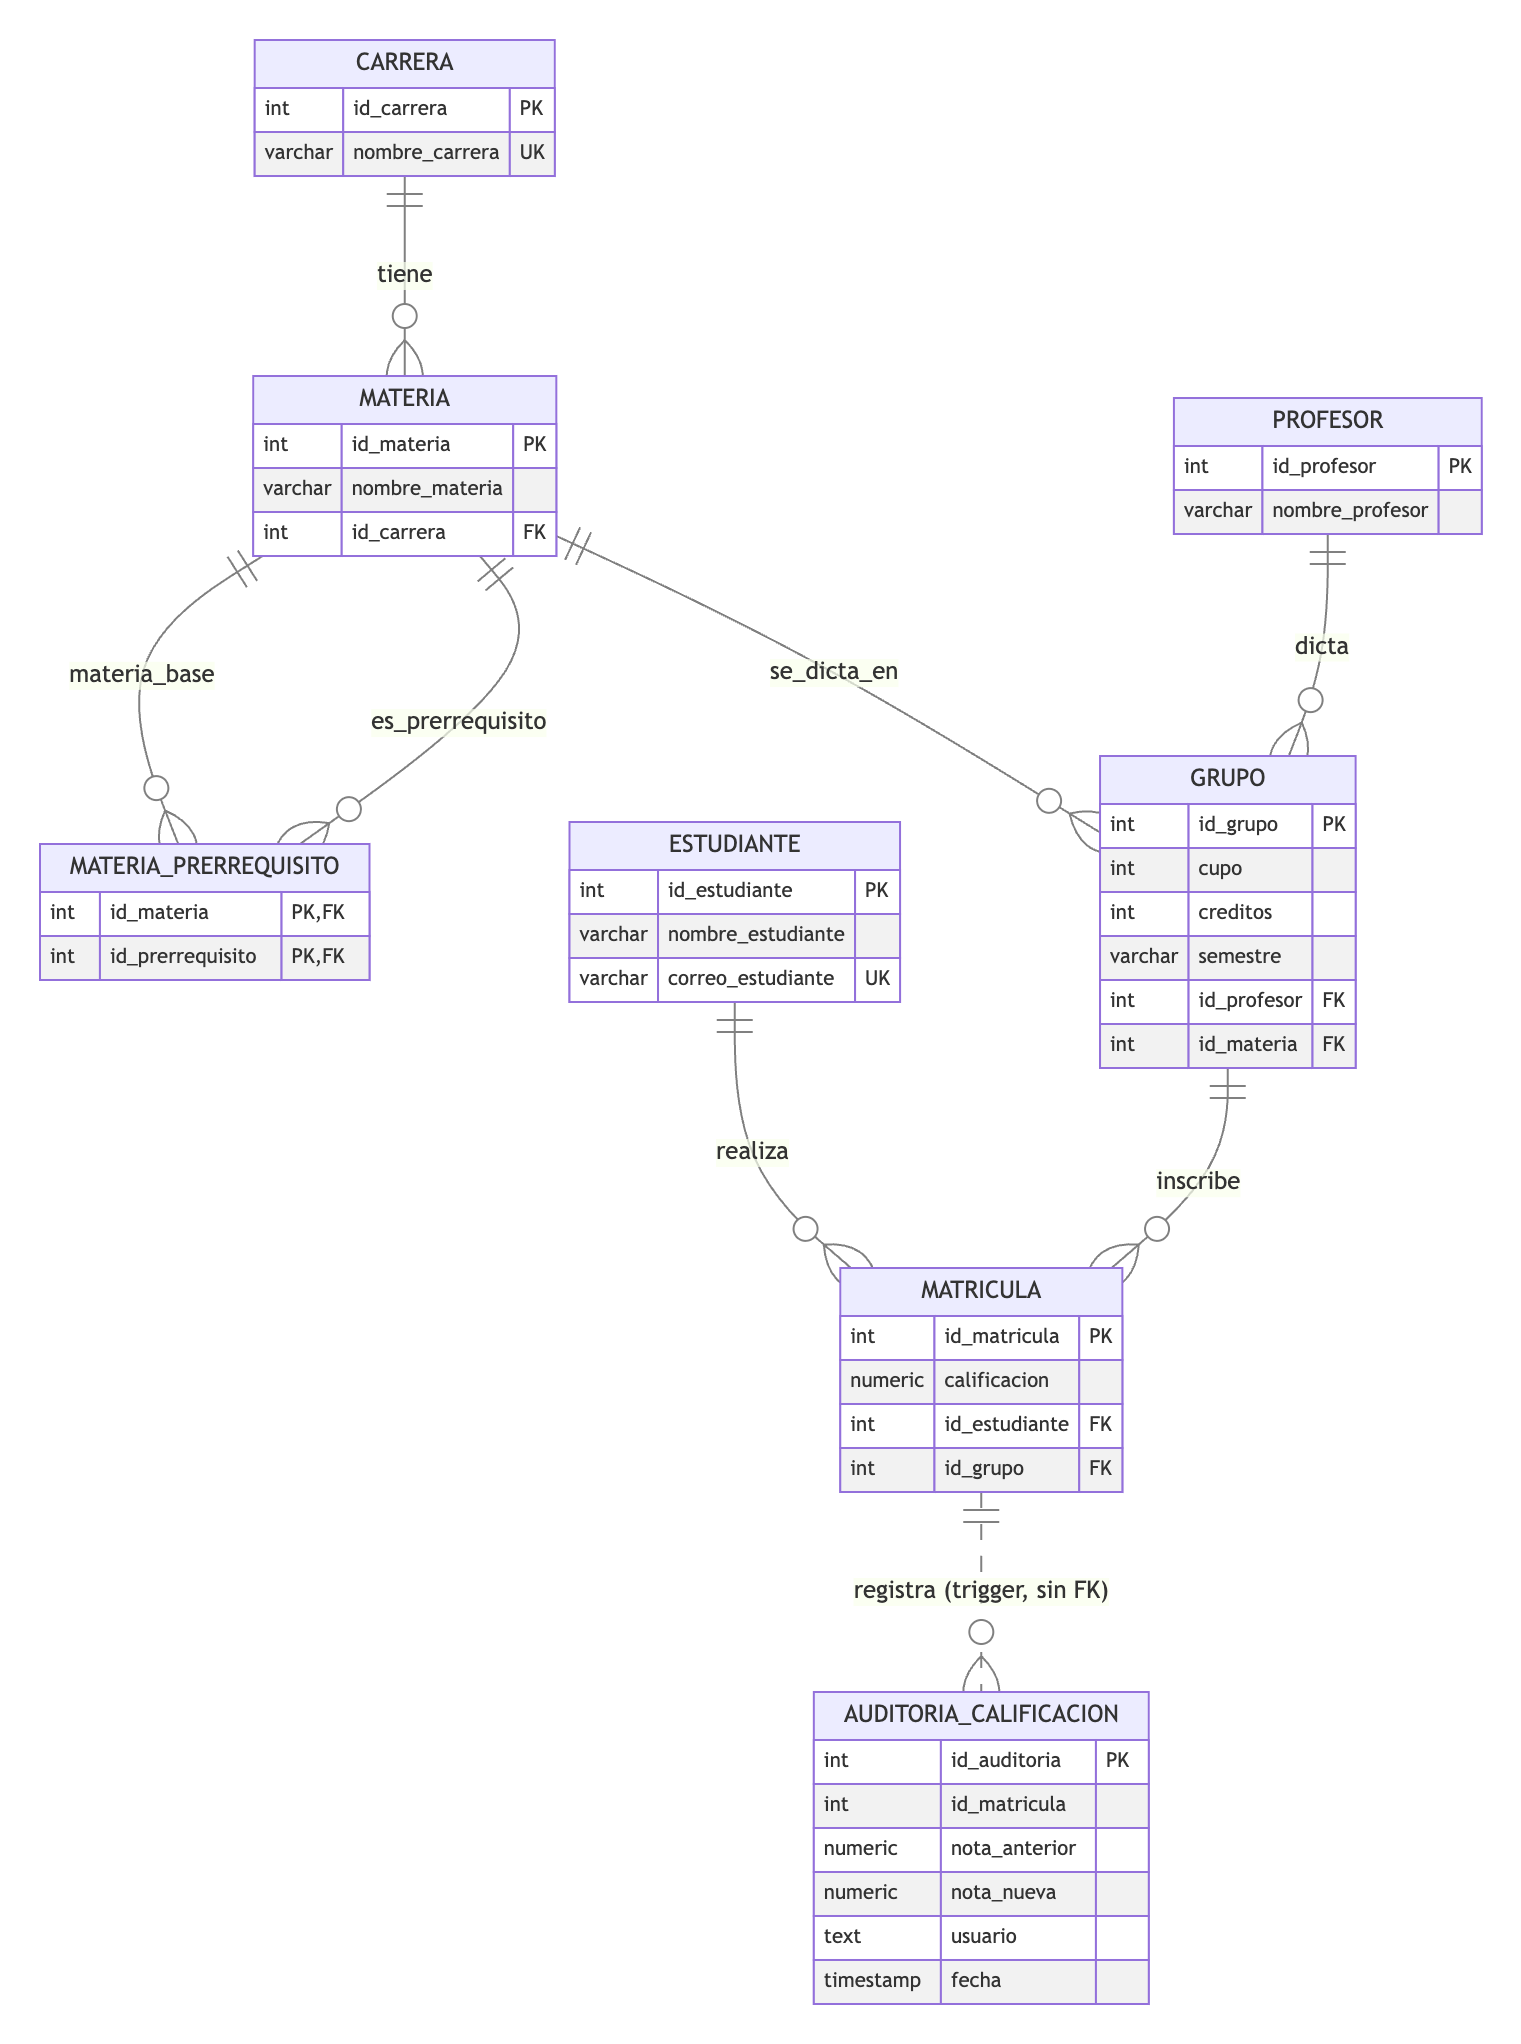
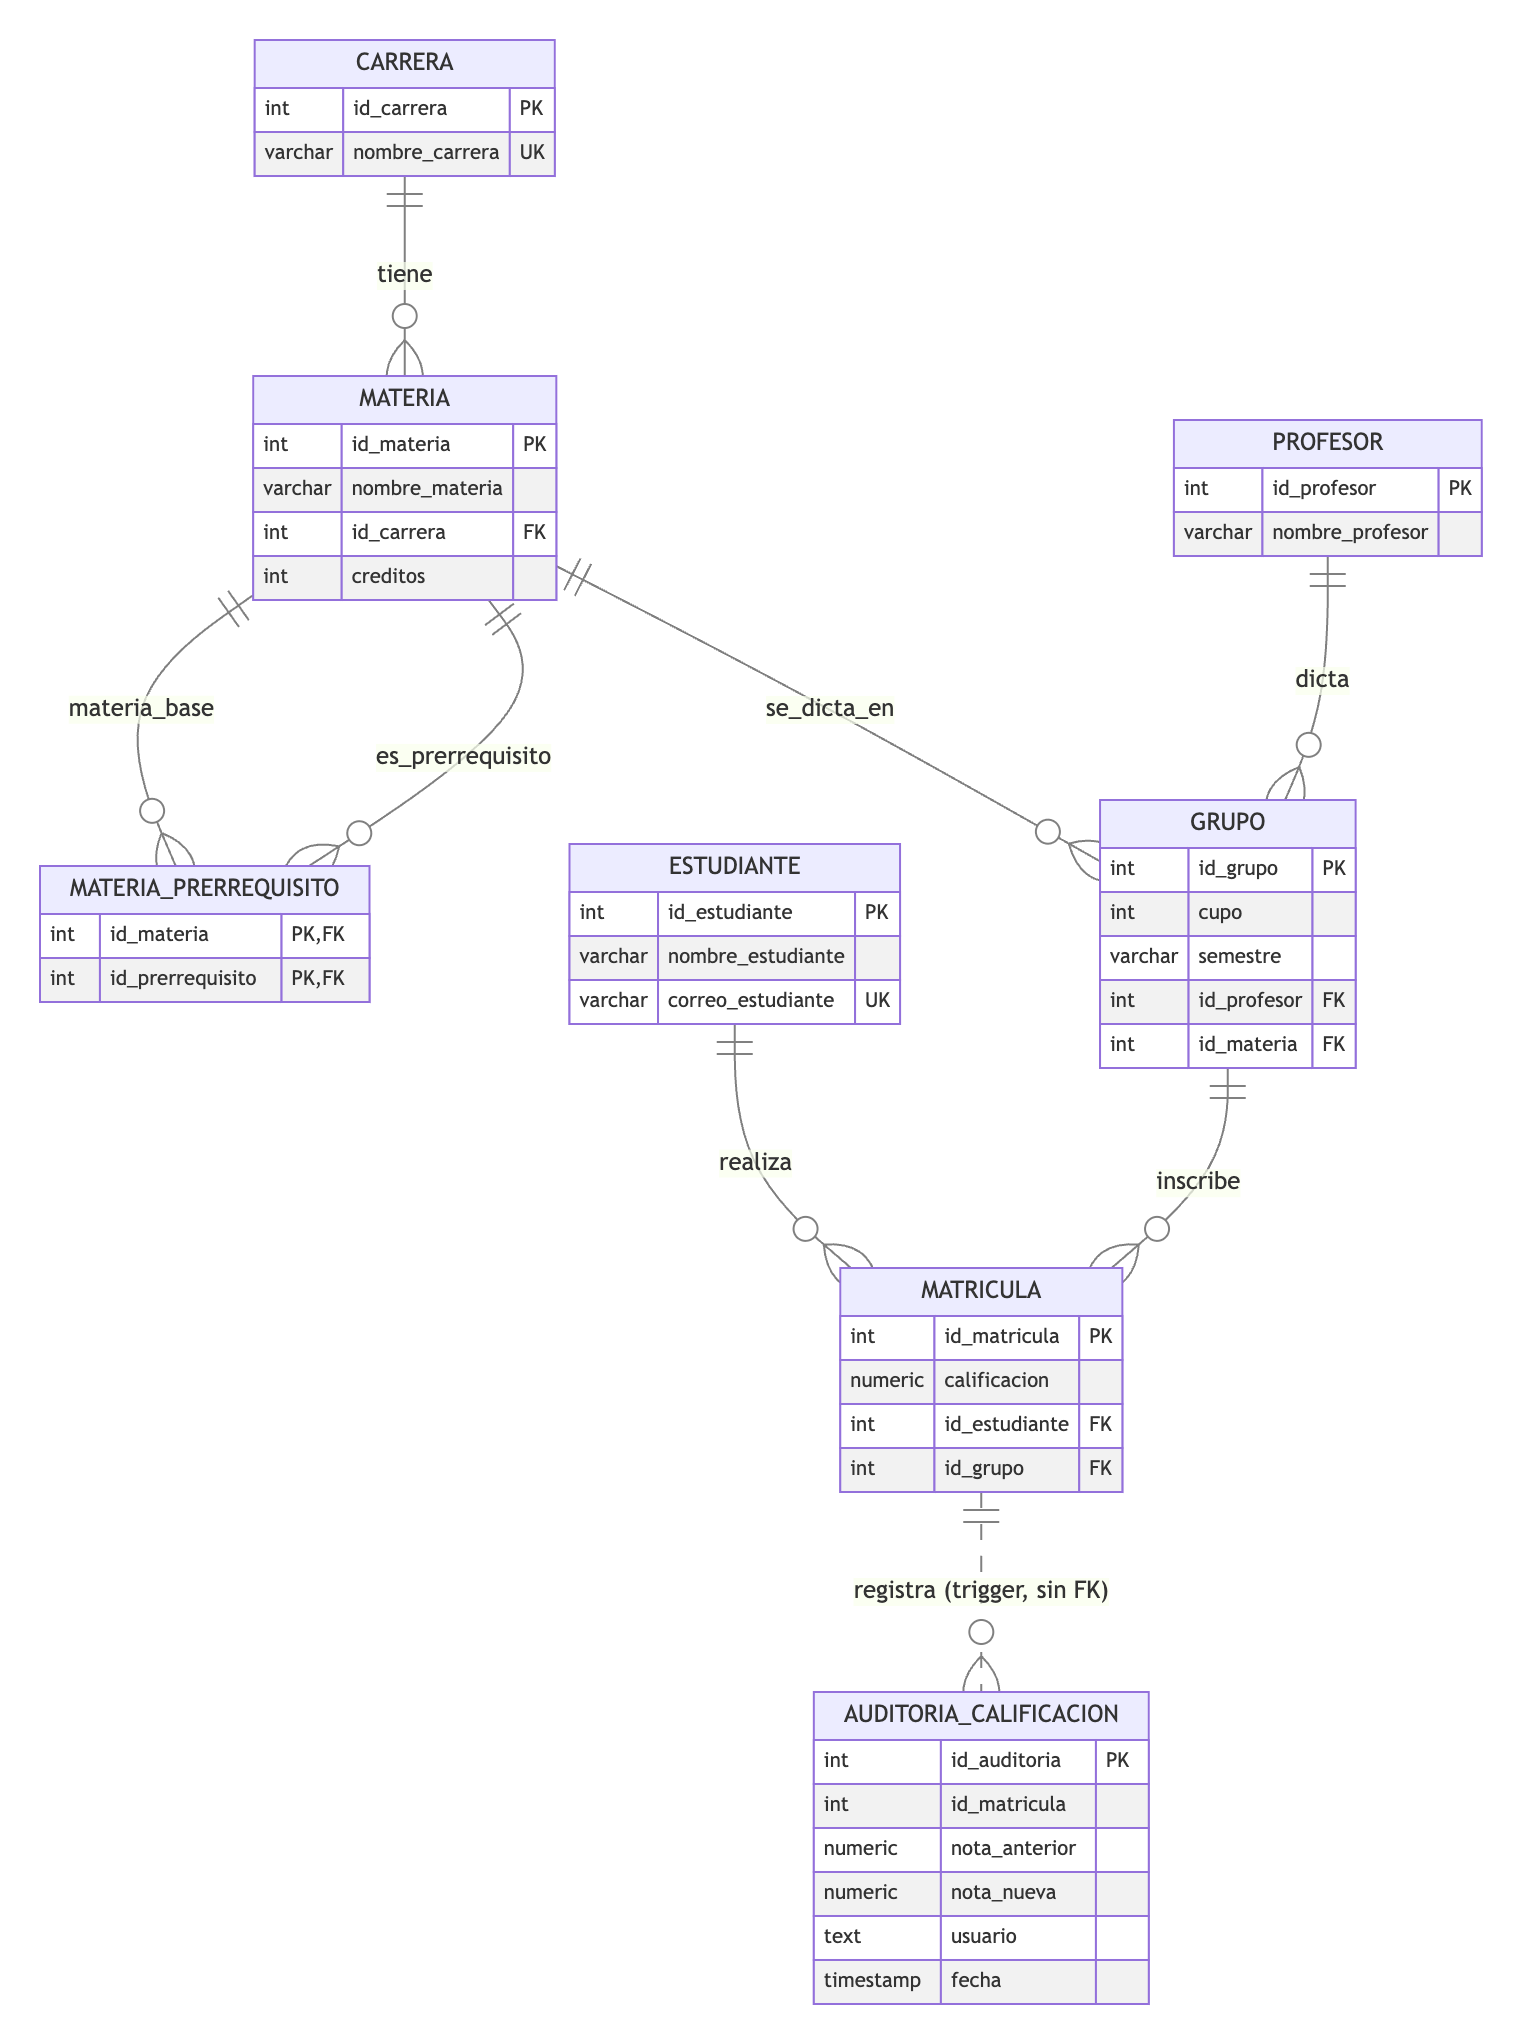
Mueve creditos de grupo a materia (3NF) y actualiza API, app, DDL, datos, diccionario, diagrama y README

diff --git a/app/app.js b/app/app.js
@@ -65,8 +65,9 @@ const tablas = {
       { nombre: "nombre_materia", etiqueta: "Nombre" },
       { nombre: "id_carrera", etiqueta: "Carrera", numero: true,
         opciones: () => opciones("/carreras", "id_carrera", (c) => c.nombre_carrera) },
+      { nombre: "creditos", etiqueta: "Créditos", tipo: "number", numero: true },
     ],
-    columnas: [["id_materia", "ID"], ["nombre_materia", "Nombre"], ["nombre_carrera", "Carrera"]],
+    columnas: [["id_materia", "ID"], ["nombre_materia", "Nombre"], ["nombre_carrera", "Carrera"], ["creditos", "Créditos"]],
   },
   estudiantes: {
     titulo: "Estudiantes", id: "id_estudiante",

diff --git a/api/main.py b/api/main.py
@@ -117,13 +117,14 @@ def borrar_carrera(id_carrera: int):
 class Materia(BaseModel):
     nombre_materia: str
     id_carrera: int
+    creditos: int
 
 
 @app.get("/materias")
 def listar_materias():
     with conexion.cursor() as cur:
         cur.execute(
-            """SELECT m.id_materia, m.nombre_materia, m.id_carrera, c.nombre_carrera
+            """SELECT m.id_materia, m.nombre_materia, m.id_carrera, m.creditos, c.nombre_carrera
                FROM materia m JOIN carrera c ON c.id_carrera = m.id_carrera
                ORDER BY m.id_materia"""
         )
@@ -133,7 +134,7 @@ def listar_materias():
 @app.get("/materias/{id_materia}")
 def obtener_materia(id_materia: int):
     with conexion.cursor() as cur:
-        cur.execute("SELECT id_materia, nombre_materia, id_carrera FROM materia WHERE id_materia = %s", (id_materia,))
+        cur.execute("SELECT id_materia, nombre_materia, id_carrera, creditos FROM materia WHERE id_materia = %s", (id_materia,))
         materia = cur.fetchone()
     if materia is None:
         raise HTTPException(status_code=404, detail="Esa materia no existe")
@@ -143,16 +144,16 @@ def obtener_materia(id_materia: int):
 @app.post("/materias", status_code=201)
 def crear_materia(datos: Materia):
     return escribir(
-        "INSERT INTO materia (nombre_materia, id_carrera) VALUES (%s, %s) RETURNING id_materia, nombre_materia, id_carrera",
-        (datos.nombre_materia, datos.id_carrera),
+        "INSERT INTO materia (nombre_materia, id_carrera, creditos) VALUES (%s, %s, %s) RETURNING id_materia, nombre_materia, id_carrera, creditos",
+        (datos.nombre_materia, datos.id_carrera, datos.creditos),
     )
 
 
 @app.put("/materias/{id_materia}")
 def editar_materia(id_materia: int, datos: Materia):
     materia = escribir(
-        "UPDATE materia SET nombre_materia = %s, id_carrera = %s WHERE id_materia = %s RETURNING id_materia, nombre_materia, id_carrera",
-        (datos.nombre_materia, datos.id_carrera, id_materia),
+        "UPDATE materia SET nombre_materia = %s, id_carrera = %s, creditos = %s WHERE id_materia = %s RETURNING id_materia, nombre_materia, id_carrera, creditos",
+        (datos.nombre_materia, datos.id_carrera, datos.creditos, id_materia),
     )
     if materia is None:
         raise HTTPException(status_code=404, detail="Esa materia no existe")
@@ -161,7 +162,7 @@ def editar_materia(id_materia: int, datos: Materia):
 
 @app.delete("/materias/{id_materia}")
 def borrar_materia(id_materia: int):
-    materia = escribir("DELETE FROM materia WHERE id_materia = %s RETURNING id_materia, nombre_materia, id_carrera", (id_materia,))
+    materia = escribir("DELETE FROM materia WHERE id_materia = %s RETURNING id_materia, nombre_materia, id_carrera, creditos", (id_materia,))
     if materia is None:
         raise HTTPException(status_code=404, detail="Esa materia no existe")
     return {"mensaje": "Materia borrada", "materia": materia}

diff --git a/README.md b/README.md
@@ -99,6 +99,7 @@ Cambios posteriores (Entregas 3, 4 y final):
 5. **Reglas `ON DELETE` explícitas.** `RESTRICT` en materia, grupo y matrícula (no se borra lo que tiene historia académica); `CASCADE` en `materia_prerrequisito` (si se borra una materia, sus prerrequisitos ya no tienen sentido).
 6. **Se quitó el índice redundante `idx_matricula_estudiante`.** El `UNIQUE (id_estudiante, id_grupo)` ya crea un índice que empieza por `id_estudiante`, así que el otro sobraba.
 7. **Nuevo índice `idx_matricula_grupo` en `matricula(id_grupo)`.** Postgres no indexa las llaves foráneas. Esta columna se busca en cada matrícula (el trigger de cupo cuenta los inscritos del grupo) y en la consulta de ocupación de grupos; sin índice, las dos recorren toda la tabla `matricula`, que es la que más crece.
-8. **Nueva tabla `auditoria_calificacion`**, llenada por un trigger, para registrar cada cambio de nota.
-9. **Lógica en la base:** 4 funciones, 1 procedimiento, 3 triggers y la vista `ranking_estudiantes` (detalle en `base_de_datos/diccionario_datos.md`).
-10. **Datos ampliados:** 10 estudiantes, 10 materias, 3 semestres y 36 matrículas coherentes con los prerrequisitos.
+8. **Créditos pasan de `grupo` a `materia` (3NF).** Los créditos dependen de la materia, no del grupo (`id_materia → creditos`); guardarlos en `grupo` era una dependencia transitiva `id_grupo → id_materia → creditos`. Se movieron conservando los valores (todos los grupos de una misma materia ya tenían los mismos créditos); Ingeniería de Software y Aprendizaje Profundo, que no tenían grupos, quedaron con 3 créditos. La función `calcular_promedio_estudiante` y la vista `ranking_estudiantes` ahora los toman de `materia` y dan los mismos resultados.
+9. **Nueva tabla `auditoria_calificacion`**, llenada por un trigger, para registrar cada cambio de nota.
+10. **Lógica en la base:** 4 funciones, 1 procedimiento, 3 triggers y la vista `ranking_estudiantes` (detalle en `base_de_datos/diccionario_datos.md`).
+11. **Datos ampliados:** 10 estudiantes, 10 materias, 3 semestres y 36 matrículas coherentes con los prerrequisitos.

diff --git a/base_de_datos/diccionario_datos.md b/base_de_datos/diccionario_datos.md
@@ -29,6 +29,7 @@ Programas académicos de la universidad.
 | id_materia | SERIAL | PK | Identificador de la materia |
 | nombre_materia | VARCHAR(100) | NOT NULL | Nombre de la materia |
 | id_carrera | INT | NOT NULL, FK → carrera (ON DELETE RESTRICT) | Carrera a la que pertenece |
+| creditos | INT | NOT NULL, CHECK > 0 | Créditos de la materia (dependen de la materia, no del grupo: 3NF) |
 
 ## materia_prerrequisito
 Relación M:N de `materia` consigo misma: qué materias hay que aprobar antes de otra.
@@ -47,7 +48,6 @@ Una oferta concreta de una materia en un semestre.
 |---|---|---|---|
 | id_grupo | SERIAL | PK | Identificador del grupo |
 | cupo | INT | NOT NULL, CHECK > 0 | Máximo de estudiantes |
-| creditos | INT | NOT NULL, CHECK > 0 | Créditos de la materia en ese grupo |
 | semestre | VARCHAR(20) | NOT NULL | Periodo, p. ej. `2026-1` |
 | id_profesor | INT | NOT NULL, FK → profesor (ON DELETE RESTRICT) | Profesor que lo dicta |
 | id_materia | INT | NOT NULL, FK → materia (ON DELETE RESTRICT) | Materia que se dicta |
